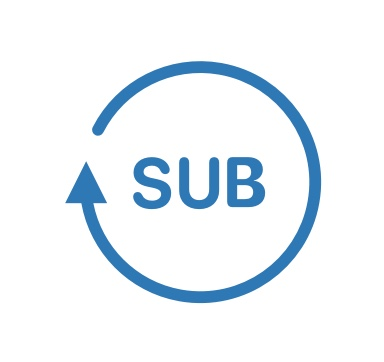
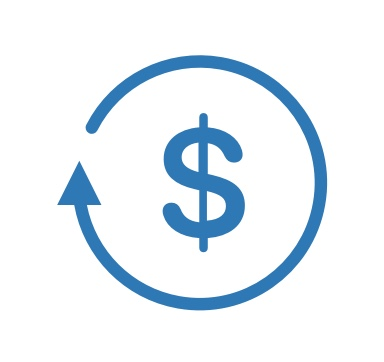
Website Updates 03/21/2021 - v3
Made updates based on Mike Dickey's feedback.

Changed region(s): [[0.1562, 0.1519, 0.875, 0.8812], [0.3438, 0.3039, 0.6875, 0.6989]]

diff --git a/studio.html b/studio.html
@@ -79,9 +79,11 @@ maximum-scale=1.0, user-scalable=no" />
     <section id="hero" class="hero-vs panel_shadow u-full-width" style="margin-bottom: 0;">
         <div class="hero-image-studio"></div>
         <div class="container centered">
-            <div class="twelve columns hero_pos_studio">
+            <div class="twelve columns hero_pos_studio" style="width: 100%;">
 
-                <h1 class="separator textShadow herotxt" style="text-align: left;">JackTrip Virtual Studio</h1>
+                <h1 class="textShadow herotxt studio-text">JackTrip Virtual Studio</h1>
+
+                <a href="https://sbomagazine.com/2021-best-tools-for-schools-awards/" target="_blank"><div class="hero-award"><img src="images/sbo_award.png" alt=""></div></a>
 
             </div>
         </div>
@@ -125,76 +127,78 @@ maximum-scale=1.0, user-scalable=no" />
     </section> -->
 
 
-    <section id="aff-block-footnote" class="sec-block-0 main" style="margin:75px auto 0px auto;">
+    <section id="aff-block-footnote" class="sec-block-0 main" style="margin:75px auto 25px auto;">
         <div class="left-side-content">
-            <p class="dark-text font-400">
+            <p class="dark-text font-400" style="margin:0 15px 0 15px;">
                 Virtual Studio is a commercial service operated by JackTrip Labs, a Delaware
                 public-benefit corporation that is an affiliate of the JackTrip Foundation.
             </p>
         </div>
     </section>
 
-    <section id="board-block-0" class="sec-block-0 main" style="margin-top:50px; margin-bottom: 25px; ">
-        <div class="left-side-content title-line">
-            <h3 class="separator dark-text-title mainHead" style="float:left; width:100%; margin-bottom: .2em;">
-                Introducing JackTrip Virtual Studio</h3>
-        </div>
-    </section>
+   
 
-    <section id="studio-links" class="studio-links main">
+    <section id="studio-links" class="studio-links main" style="margin-bottom:25px">
         <div class="studio_cont">
 
             <div class="studio left-side-content btn-cont">
-                <div class="studio-link-img"><img src="images/studio-image-device.jpg" alt="Image of JackTrip device.">
-                </div>
+                <a href="https://www.amazon.com/dp/B08L9LDW35?ref=myi_title_dp" target="_blank"><div class="studio-link-img"><img src="images/studio-image-device.jpg" alt="Image of JackTrip device.">
+                </div></a>
                 <p>JackTrip’s Virtual Studio Devices are available at:</p>
                 <h4 class="center-text amazon_btn_vs" style="margin-bottom: 0">
                     <a href="https://www.amazon.com/dp/B08L9LDW35?ref=myi_title_dp" target="_blank"><img
                             src="images/amazon-logo_black.png" alt="Amazon logo button."></a>
                 </h4>
-                <!-- <div class="orders-20 dark-text"><a href="mailto:sales@jacktrip.org">Contact us</a> for orders of
-                    20 or more.</div> -->
+                <div class="orders-20 dark-text" style="font-size: 14px; margin: 20px auto 0 0;"><a href="mailto:sales@jacktrip.org">Contact us</a> for orders<br>of 20 or more.</div>
             </div>
 
 
             <div class="studio left-side-content btn-cont">
-                <div class="studio-link-img"><img src="images/studio-image-acessories.jpg"
-                        alt="Image of JackTrip accessories."></div>
+                <a href="https://www.sweetwater.com/store/detail/LiveOnlineBun--behringer-live-online-essentials-bundle" target="_blank"><div class="studio-link-img"><img src="images/studio-image-acessories.jpg"
+                        alt="Image of JackTrip accessories."></div></a>
                 <p>Live Online Essentials Bundle is available at:</p>
                 <h4 class="center-text amazon_btn_vs" style="margin-bottom: 0">
-                    <a
-                        href="https://www.sweetwater.com/store/detail/LiveOnlineBun--behringer-live-online-essentials-bundle" target="_blank"><img
+                    <a href="https://www.sweetwater.com/store/detail/LiveOnlineBun--behringer-live-online-essentials-bundle" target="_blank"><img
                             src="images/sweetwater-logo_black.png"
                             alt="Sweetwater Music logo button."></a>
                 </h4>
+                <div class="orders-20 dark-text" style="font-size: 14px; margin: 20px auto 0 0;"><a href="mailto:sales@jacktrip.org">Contact us</a> for orders<br>of 20 or more.</div>
             </div>
 
             <div class="studio left-side-content btn-cont">
-                <div class="studio-link-img"><img src="images/studio-image-studio.jpg" alt="Image of JackTrip logo.">
-                </div>
-                <p>What is the JackTrip Virtual Studio?</p>
+                <a href="https://help.jacktrip.org/hc/en-us/articles/1500004365742-Step-0-What-is-the-JackTrip-Virtual-Studio-" target="_blank"><div class="studio-link-img"><img src="images/studio-image-studio.jpg" alt="Image of JackTrip logo.">
+                </div></a>
+                <p>First Time Setup Guide <br> &nbsp;&nbsp;&nbsp;&nbsp;&nbsp;&nbsp;&nbsp;&nbsp;&nbsp;&nbsp;</p>
                 <h4 class="center-text amazon_btn_vs" style="margin-bottom: 0">
-                    <a
-                        href="https://help.jacktrip.org/hc/en-us/articles/1500004365742-Step-0-What-is-the-JackTrip-Virtual-Studio-" target="_blank"><img
+                    <a href="https://help.jacktrip.org/hc/en-us/articles/1500004365742-Step-0-What-is-the-JackTrip-Virtual-Studio-" target="_blank"><img
                             src="images/learn-more-cta.svg" alt="Learn More button for 'What is JackTrip Studio.'"></a>
                 </h4>
+                <div class="orders-20 dark-text" style="font-size: 14px; margin: 20px auto 0 0;">&nbsp;&nbsp;&nbsp;&nbsp;&nbsp;<br>&nbsp;&nbsp;&nbsp;&nbsp;&nbsp;</div>
             </div>
 
             <div class="studio left-side-content btn-cont">
-                <div class="studio-link-img"><img src="images/studio-image-sub.jpg"
-                        alt="Image of JackTrip subscription logo."></div>
+                <a href="https://jacktrip.org/pricing.html"><div class="studio-link-img"><img src="images/studio-image-sub.jpg"
+                        alt="Image of JackTrip subscription logo."></div></a>
                 <p>Virtual Studio monthly subscription plans</p>
                 <h4 class="center-text amazon_btn_vs" style="margin-bottom: 0">
-                    <a
-                        href="https://jacktrip.org/pricing.html"><img
+                    <a href="https://jacktrip.org/pricing.html"><img
                             src="images/learn-more-cta.svg" alt="Learn More button for Subscription pricing."></a>
                 </h4>
+                <div class="orders-20 dark-text" style="font-size: 14px; margin: 20px auto 0 0;">&nbsp;&nbsp;&nbsp;&nbsp;&nbsp;<br>&nbsp;&nbsp;&nbsp;&nbsp;&nbsp;</div>
             </div>
         </div>
+          
         </div>
     </section>
 
-
+    <section id="board-block-0" class="sec-block-0 main" style="margin-top:0px; margin-bottom: 75px; ">
+        <div class="left-side-content title-line">
+            <h3 class="separator dark-text-title mainHead" style="float:left; width:100%; margin-bottom: 2rem;">
+                Introducing JackTrip Virtual Studio</h3>
+                <div class="line-sep"></div>
+        </div>
+        
+    </section>
 
 
 

diff --git a/css/media_queries.css b/css/media_queries.css
@@ -35,6 +35,22 @@
 /* Larger than mobile */
 @media (min-width: 0px) {
 
+    .studio-text{
+        text-align: left; 
+        max-width: 55%;
+    }
+
+    .hero-award{
+        position: absolute;
+        right: 6%;
+        bottom: -1%;
+        width: 125px;
+    }
+
+    .hero-award img{
+        width:100%;
+    }
+
     .footer-margin{
         width:90%;
     }
@@ -998,6 +1014,9 @@
 /* Larger than phablet */
 
 @media (min-width: 414px) {
+
+    
+
     #myVideo {
         transform: matrix(1, 0, 0, 1, 800, 0);
         display: none;
@@ -1205,6 +1224,15 @@
 
 @media (min-width: 550px) {
 
+    .hero-award{
+        right: 5%;
+    }
+
+    
+    .hero-award{
+        bottom: 0;
+        width: 175px;
+    }
     .fineprint {
 
         width: 0px;
@@ -1356,6 +1384,11 @@
     }
 }
 
+@media (min-width: 650px) {
+    .studio-text{
+        max-width: 55%;
+    }
+}
 
 @media (min-width: 715px) {
 
@@ -1382,8 +1415,17 @@
 
 }
 
-@media (min-width: 750px) {
 
+
+@media (min-width: 750px) {
+    .studio-text {
+        max-width: 65%;
+    }
+
+    .hero-award{
+        bottom: 0;
+        width: 200px;
+    }
     
 
     /* .banner-ad-cont{
@@ -1816,6 +1858,13 @@
         width: 100%;
     }
 
+
+}
+
+@media (min-width: 850px){
+    .hero-award{
+        bottom: -8%;
+    }
 
 }
 

diff --git a/news.html b/news.html
@@ -84,8 +84,8 @@
           <div class="feed" id="news01" style="padding-bottom:75px;">
             <div class="sec-block-0 main" style="margin-top:60px; margin-bottom: 40px; width:100%; max-width: 900px;">
               <div class="left-side-content title-line">
-                <h3 class="separator dark-text-title mainHead" style="float:left; width:100%;">Press Releases and News
-                </h3>
+                <h3 class="separator dark-text-title mainHead" style="float:left; width:100%;">
+                  Press Releases and News</h3>
                 <div class="line-sep"></div>
               </div>
             </div>

diff --git a/css/studio.css b/css/studio.css
@@ -147,10 +147,10 @@ p {
     width:100%;
     
 }
-
+/* #acacac; */
 .studio-link-img img{
     width: 90%;
-    border: 1px solid #acacac;
+    border: 1px solid #dbdbdb;
 }
 
 .btn-cont{
